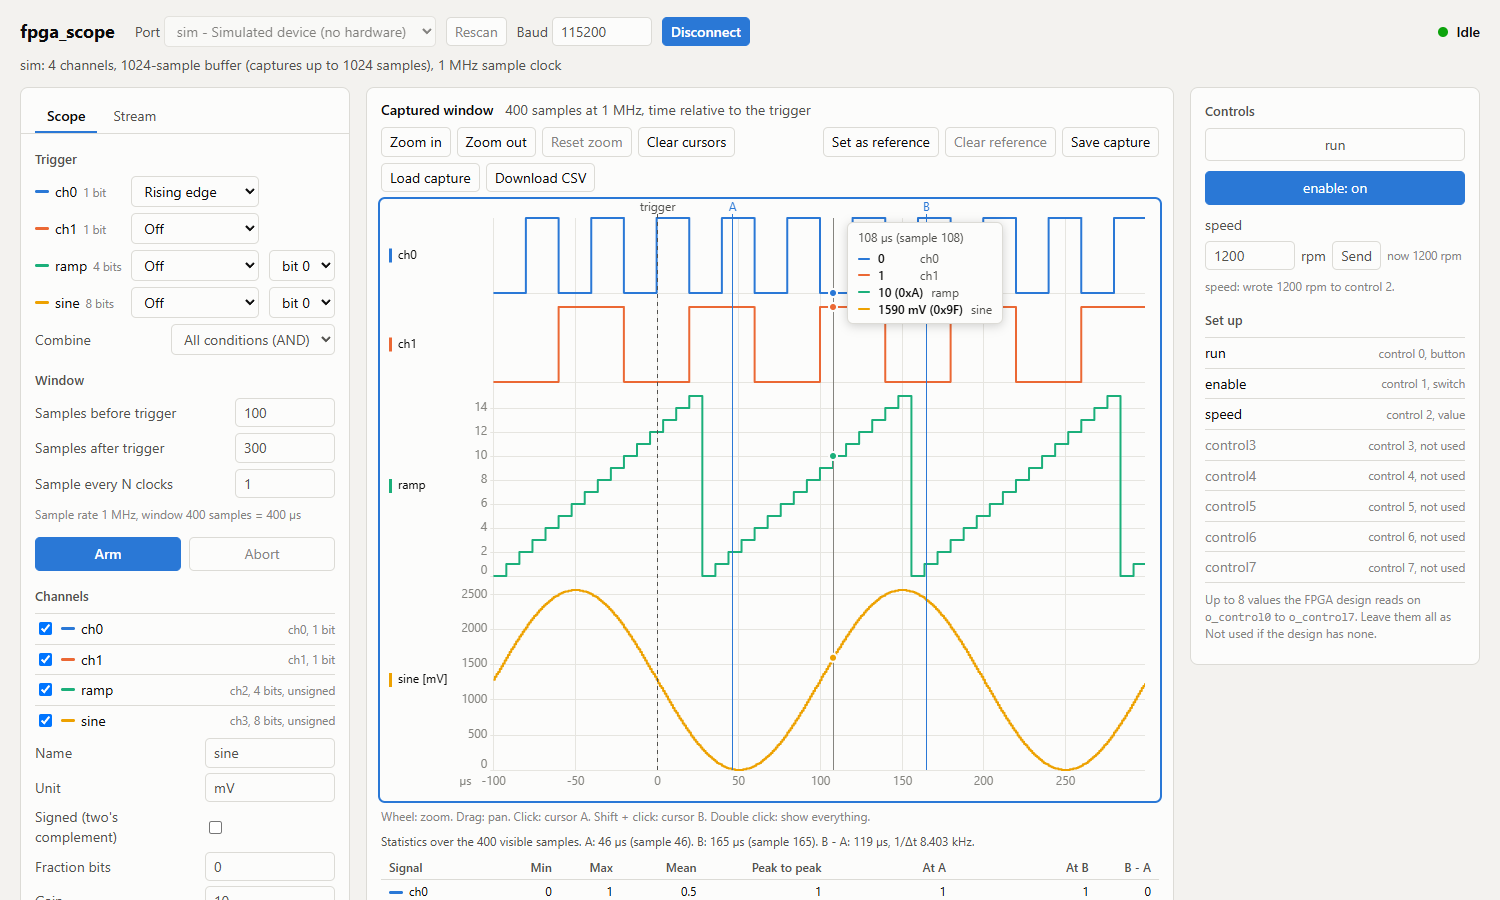
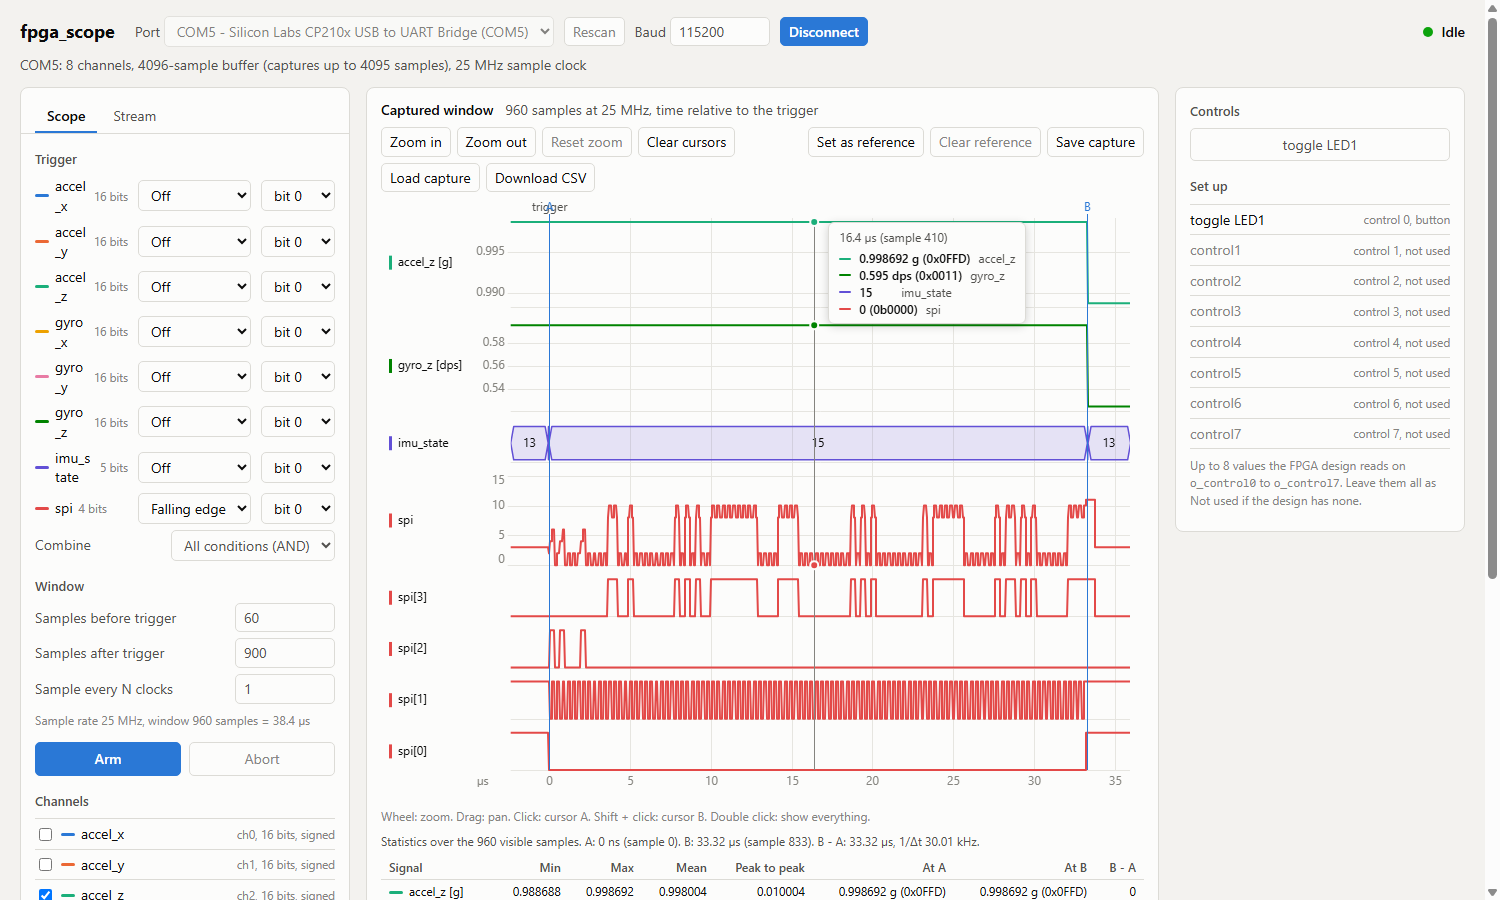
fpga_scope: 16-bit channels verified on the board, full-buffer window avoided
Tested on the Drone FPGA_SOM board with p_channel_max_width(16): an IMU
(LSM6DSM) on six 16-bit channels plus its FSM state and SPI lines, 14-byte
samples. Captures, triggers on bits 8-15, full 4096-sample dumps and stream
bursts decode correctly. Recorded in docs/TODO.md.

The run found an old RTL bug: at decimation 1 scope_ctrl writes the trigger
sample on top of the post samples, so a window of the whole buffer comes
back with sample 0 overwritten by the newest sample. Left in the RTL by
decision; the hosts now keep pre + max(post, 1) <= depth - 1
(ScopeInfo.capture_window_fits, ScopeMath.captureWindowFits). session.py
and scope_cli.py capture refuse a longer window, and the GUI's window hint
says when it is too long. Documented as a known issue in protocol.md.

scope_cli.py --trig still took bits 0-7 only; now 0-15.

GUI screenshots retaken on the board with real IMU data.

diff --git a/utils/fpga_scope/gui/frontend/tests/e2e.js b/utils/fpga_scope/gui/frontend/tests/e2e.js
@@ -95,6 +95,19 @@
     ok(q("ch0-signed").disabled && !q("ch3-signed").disabled, "only multi-bit channels can be signed");
   });
 
+  await step("the window hint says when pre + post is more than the core captures correctly", async () => {
+    const before = [q("pre").value, q("post").value];
+    eq(js("app.info.max_capture_samples"), 1023); // the simulated core has a 1024-sample buffer
+    set("pre", 512); set("post", 511);
+    ok(!q("scope-hint").textContent.includes("too long"), "1023 samples fit");
+    set("post", 512);
+    ok(q("scope-hint").textContent.includes("too long: at most 1023"), "the whole buffer does not");
+    set("pre", 1023); set("post", 0);
+    ok(q("scope-hint").textContent.includes("too long"), "post 0 still needs room for the trigger sample");
+    set("pre", before[0]); set("post", before[1]);
+    ok(!q("scope-hint").textContent.includes("("), "back to a plain hint");
+  });
+
   await step("a long channel name does not push the trigger settings out of the panel", async () => {
     const inside = () => [0, 1, 2, 3].every((c) => q(`trig-bit-${c}`).getBoundingClientRect().right <= q("triggers").getBoundingClientRect().right + 0.5
                                                  && q(`trig-type-${c}`).getBoundingClientRect().right <= q("triggers").getBoundingClientRect().right + 0.5);

diff --git a/utils/fpga_scope/gui/frontend/scope_math.js b/utils/fpga_scope/gui/frontend/scope_math.js
@@ -429,6 +429,17 @@ const ScopeMath = (() => {
     return group.members.every((s) => s.width === 1 || s.cfg.style === "bus") ? HEIGHTS.small : HEIGHTS.medium; // no Y axis to make room for
   }
 
+  /* ---- capture window ---- */
+
+  /* Whether the core captures this window correctly, the same rule as
+     protocol.py's capture_window_fits. maxSamples (from GET_INFO) is one short
+     of the buffer: a window of the whole buffer comes back with its oldest
+     sample overwritten by the newest. The trigger sample is written even with
+     post 0, so that still costs one sample. */
+  function captureWindowFits(pre, post, maxSamples) {
+    return pre + post >= 1 && pre + Math.max(post, 1) <= maxSamples;
+  }
+
   /* ---- files ---- */
 
   const csvCell = (s) => (/[",\n]/.test(s) ? `"${s.replace(/"/g, '""')}"` : s);
@@ -488,6 +499,7 @@ const ScopeMath = (() => {
     trim, formatTick, formatValue, formatRaw, formatHz, timeUnit, formatSeconds, label,
     fullView, clampView, zoomView, panView, visibleSamples,
     stats, busRuns, bitSignals, laneGroups, laneWeight,
+    captureWindowFits,
     csvText, captureFile, parseCaptureFile,
   };
 })();

diff --git a/utils/fpga_scope/gui/frontend/app.js b/utils/fpga_scope/gui/frontend/app.js
@@ -240,9 +240,14 @@ function buildTriggerRows(info, force = false) {
 function updateScopeHint() {
   if (!app.info) { $("scope-hint").textContent = ""; return; }
   const decim = clampInt($("decim"), 1);
-  const total = clampInt($("pre"), 0) + clampInt($("post"), 0);
+  const pre = clampInt($("pre"), 0), post = clampInt($("post"), 0);
+  const total = pre + post;
   const period = decim / app.info.clk_freq_hz;
-  $("scope-hint").textContent = `Sample rate ${M.formatHz(1 / period)}, window ${total} samples = ${M.formatSeconds(total * period)}`;
+  const max = app.info.max_capture_samples;
+  const problem = M.captureWindowFits(pre, post, max) ? ""
+    : total < 1 ? " (empty: no samples to capture)"
+    : ` (too long: at most ${max} samples, pre at most ${max - 1} with post 0)`;
+  $("scope-hint").textContent = `Sample rate ${M.formatHz(1 / period)}, window ${total} samples = ${M.formatSeconds(total * period)}${problem}`;
 }
 
 function clampInt(input, fallback) {

diff --git a/utils/fpga_scope/gui/frontend/tests/unit.js b/utils/fpga_scope/gui/frontend/tests/unit.js
@@ -445,6 +445,15 @@
 
   /* ---- files ---- */
 
+  test("a capture window stays one sample short of the buffer, also with post 0", () => {
+    ok(M.captureWindowFits(2047, 2048, 4095), "4095 of a 4096-sample buffer");
+    ok(!M.captureWindowFits(2048, 2048, 4095), "the whole buffer");
+    ok(M.captureWindowFits(4094, 0, 4095), "post 0 leaves room for the trigger sample");
+    ok(!M.captureWindowFits(4095, 0, 4095), "post 0 with no room for the trigger sample");
+    ok(M.captureWindowFits(0, 1, 4095), "a single sample");
+    ok(!M.captureWindowFits(0, 0, 4095), "an empty window");
+  });
+
   test("the CSV of a capture has the time relative to the trigger", () => {
     const text = M.csvText([{ name: "a", values: [1, 2, 3] }, { name: "b [V]", values: [0.5, -1, 0] }], { pre: 1, period: 1e-3 });
     eq(text.split("\n"), ["sample,time_s,a,b [V]", "-1,-1.000000e-3,1,0.5", "0,0.000000e+0,2,-1", "1,1.000000e-3,3,0", ""]);

diff --git a/utils/fpga_scope/gui/backend/test_scope_cli.py b/utils/fpga_scope/gui/backend/test_scope_cli.py
@@ -81,6 +81,13 @@ class TestCli(unittest.TestCase):
     self.assertIn("state ARMED", out)
     self.assertEqual(port.written[-1], bytes.fromhex("AA 06 00 00 06"))
 
+  def test_capture_window_of_the_whole_buffer_is_refused(self):
+    # the core loses the oldest sample of a window that fills its 16-sample buffer
+    code, _, err, port = run_cli([INFO_FRAME], "capture", "--trig", "0:rise", "--pre", "8", "--post", "8")
+    self.assertEqual(code, 1)
+    self.assertIn("between 1 and 15 samples", err)
+    self.assertEqual(len(port.written), 1) # only GET_INFO
+
   def test_stream(self):
     code, out, _, port = run_cli([
       INFO_FRAME, ok(Opcode.ABORT), ok(Opcode.SET_TRIGGER), ok(Opcode.SET_MODE),
@@ -104,6 +111,12 @@ class TestCli(unittest.TestCase):
   def test_bad_trigger_spec(self):
     with self.assertRaises(SystemExit), contextlib.redirect_stderr(io.StringIO()):
       scope_cli.build_parser().parse_args(PORT_ARGS + ["capture", "--trig", "0:sideways"])
+
+  def test_trigger_bit_up_to_15(self):
+    args = scope_cli.build_parser().parse_args(PORT_ARGS + ["capture", "--trig", "2:high:12"])
+    self.assertEqual(args.trig[0][1].bit_select, 12)
+    with self.assertRaises(SystemExit), contextlib.redirect_stderr(io.StringIO()):
+      scope_cli.build_parser().parse_args(PORT_ARGS + ["capture", "--trig", "2:high:16"])
 
 
 if __name__ == "__main__":

diff --git a/utils/fpga_scope/gui/backend/test_protocol.py b/utils/fpga_scope/gui/backend/test_protocol.py
@@ -103,7 +103,7 @@ class TestInfo(unittest.TestCase):
     self.assertEqual(info.buffer_depth, 16)
     self.assertEqual(info.frame_bytes, 1)
     self.assertEqual(info.clk_freq_hz, 100_000_000)
-    self.assertEqual(info.max_capture_samples, 16)
+    self.assertEqual(info.max_capture_samples, 15)
 
   def test_a_core_from_before_the_controls_has_none(self):
     self.assertEqual(ScopeInfo.unpack(b"\x01" + INFO_PAYLOAD[1:]).num_controls, 0)
@@ -128,6 +128,17 @@ class TestInfo(unittest.TestCase):
   def test_max_capture_with_16_byte_samples(self):
     info = ScopeInfo(2, 3, 8, (16,) * 8, 12, 16, 100_000_000)
     self.assertEqual(info.max_capture_samples, 4095)
+
+  def test_max_capture_one_short_of_the_buffer(self):
+    # the board build of 2026-10-15: 4096 x 14 bytes fits LEN, but a window of
+    # the whole buffer loses its oldest sample (known issue in scope_ctrl)
+    info = ScopeInfo(2, 3, 8, (16,) * 6 + (5, 4), 12, 14, 25_000_000)
+    self.assertEqual(info.max_capture_samples, 4095)
+    self.assertTrue(info.capture_window_fits(2047, 2048))
+    self.assertTrue(info.capture_window_fits(4094, 0))
+    self.assertFalse(info.capture_window_fits(2048, 2048))
+    self.assertFalse(info.capture_window_fits(4095, 0)) # the trigger sample is written too
+    self.assertFalse(info.capture_window_fits(0, 0))
 
 
 class TestClient(unittest.TestCase):

diff --git a/utils/fpga_scope/gui/backend/protocol.py b/utils/fpga_scope/gui/backend/protocol.py
@@ -145,8 +145,16 @@ class ScopeInfo:
 
   @property
   def max_capture_samples(self):
-    """Largest pre+post window: bounded by the buffer and by a dump having to fit LEN."""
-    return min(self.buffer_depth, MAX_PAYLOAD_LEN // self.frame_bytes)
+    """Largest pre+post window: one sample short of the buffer and bounded by a
+    dump having to fit LEN. A window of the whole buffer comes back with its
+    oldest sample overwritten by the newest (known issue, docs/protocol.md),
+    and with post 0 pre must stay one lower still (see capture_window_fits)."""
+    return min(self.buffer_depth - 1, MAX_PAYLOAD_LEN // self.frame_bytes)
+
+  def capture_window_fits(self, pre, post):
+    """Whether the core captures this window correctly: the trigger sample is
+    written on top of pre and post, so post 0 still costs one sample."""
+    return 1 <= pre + post and pre + max(post, 1) <= self.max_capture_samples
 
   def supports(self, mode):
     return bool(self.modes_supported & (1 << mode))

diff --git a/utils/fpga_scope/gui/backend/scope_cli.py b/utils/fpga_scope/gui/backend/scope_cli.py
@@ -33,7 +33,7 @@ def parse_trig(text):
     if len(parts) not in (2, 3): raise ValueError
     channel = int(parts[0])
     bit = int(parts[2]) if len(parts) == 3 else 0
-    if not (0 <= channel <= 7 and 0 <= bit <= 7): raise ValueError
+    if not (0 <= channel <= 7 and 0 <= bit <= 15): raise ValueError
     return channel, ChannelTrigger(True, TRIGGER_TYPES[parts[1]], bit)
   except (ValueError, KeyError):
     raise argparse.ArgumentTypeError(f"'{text}' is not CH:TYPE[:BIT] with TYPE one of {', '.join(TRIGGER_TYPES)}")
@@ -72,6 +72,10 @@ def print_samples(info, samples, csv_path):
 
 def run_capture(scope, args):
   info = scope.get_info()
+  if not info.capture_window_fits(args.pre, args.post):
+    print(f"pre + post must be between 1 and {info.max_capture_samples} samples"
+          f" (with post 0, pre at most {info.max_capture_samples - 1})", file=sys.stderr)
+    return 1
   scope.abort()
   scope.set_mode(Mode.SCOPE)
   scope.set_trigger(trigger_config(args))

diff --git a/utils/fpga_scope/gui/backend/session.py b/utils/fpga_scope/gui/backend/session.py
@@ -103,8 +103,9 @@ class ScopeSession:
         raise ValueError(f"{len(channels)} channel triggers for a {info.num_channels}-channel core")
       if not any(c["enable"] for c in channels):
         raise ValueError("no trigger enabled: the capture would never complete")
-      if pre + post < 1 or pre + post > info.max_capture_samples:
-        raise ValueError(f"pre + post must be between 1 and {info.max_capture_samples} samples")
+      if not info.capture_window_fits(pre, post):
+        raise ValueError(f"pre + post must be between 1 and {info.max_capture_samples} samples"
+                         f" (with post 0, pre at most {info.max_capture_samples - 1})")
       config = TriggerConfig(
         [ChannelTrigger(c["enable"], TRIGGER_TYPES[c["type"]], c["bit_select"]) for c in channels],
         combine_or, pre, post, decimation)

diff --git a/utils/fpga_scope/gui/backend/test_app.py b/utils/fpga_scope/gui/backend/test_app.py
@@ -169,6 +169,10 @@ class TestApp(unittest.TestCase):
     self.assertEqual(no_trigger.status_code, 400)
     too_long = self.http.post("/api/capture", json={"channels": [RISE_CH0], "pre": 1000, "post": 1000})
     self.assertEqual(too_long.status_code, 400)
+    whole_buffer = self.http.post("/api/capture", json={"channels": [RISE_CH0], "pre": 512, "post": 512})
+    self.assertEqual(whole_buffer.status_code, 400) # 1024-sample buffer: at most 1023
+    no_post = self.http.post("/api/capture", json={"channels": [RISE_CH0], "pre": 1023, "post": 0})
+    self.assertEqual(no_post.status_code, 400)
     bad_type = self.http.post("/api/capture", json={"channels": [{"enable": True, "type": "sideways"}], "pre": 1, "post": 1})
     self.assertEqual(bad_type.status_code, 422)
 

diff --git a/utils/fpga_scope/docs/TODO.md b/utils/fpga_scope/docs/TODO.md
@@ -6,12 +6,14 @@ backend and browser GUI. User-facing documentation is in
 [`integration.md`](integration.md); this file tracks status, decisions and
 remaining work.
 
-## Current status (2026-10-12): working on hardware
+## Current status (2026-10-15): working on hardware
 
 The whole chain (RTL core, UART, `protocol.py`, backend, GUI) has run on a
 real board, including the controls (host-writable outputs, added
-2026-10-12), which the user tried there by hand. See "Verification record"
-for exactly what was tested.
+2026-10-12), which the user tried there by hand, and the 16-bit channels
+(2026-10-15), tested on the board with an IMU. One RTL bug is known and
+deliberately left in place, worked around by the host (see "Known issues").
+See "Verification record" for exactly what was tested.
 
 ## What exists
 
@@ -36,6 +38,31 @@ for exactly what was tested.
   (`scope_math.js` holds the maths, `tests/` its tests).
 - `docs/protocol.md`, `docs/integration.md`, `docs/gui.md`.
 
+## Known issues
+
+- **A window of the whole buffer loses its oldest sample** (found on the
+  board 2026-10-15). When the trigger is accepted on a sample tick (always
+  at decimation 1) `scope_ctrl` writes the trigger sample and then all
+  `post` samples, one more than the window (two with `post` 0). The extra
+  write only matters when `pre + post` equals the buffer depth: it wraps
+  onto the oldest slot, and dump sample 0 is a copy of the newest sample.
+  Seen on every full-buffer capture (2048/2048, 10/4086, 4000/96) and never
+  with 4095 samples. It is old, not caused by the 16-bit work: the 512/512
+  board test of 2026-10-10 did not compare sample 0 with its neighbours.
+  - Decision (user, 2026-10-15): not worth an RTL change. The hosts keep
+    `pre + max(post, 1) <= depth - 1`: `ScopeInfo.max_capture_samples` /
+    `capture_window_fits` in `protocol.py` (used by `session.py` and
+    `scope_cli.py capture`) and `ScopeMath.captureWindowFits` (the hint
+    under the GUI's window). Documented in `docs/protocol.md`. A
+    hand-written `CMD_SET_TRIGGER` can still ask for the full buffer.
+  - The fix, if `scope_ctrl.v` is ever touched anyway: when the trigger
+    is taken on a cycle that also writes, count that write as the first
+    post sample (`r17_post_remaining <= post - 1`, straight to `DONE` when
+    nothing is left), skip the write when `post` is 0, and count it in
+    `o_fill_count`. Then add a full-buffer test to `scope_tb.v` (none of
+    its tests fills the buffer today), lift the host limit, and re-run on
+    the board.
+
 ## Verification record
 
 - **Simulation**: `test/scope_tb.v` passes (GET_INFO, SET_TRIGGER, ARM +
@@ -44,6 +71,38 @@ for exactly what was tested.
   `test_scope_cli`, `test_app`) against scripted bytes and the simulated
   device. The example design was simulated once with an ad hoc testbench
   (not committed) and its replies decoded by `protocol.py`.
+- **Hardware, 2026-10-15: 16-bit channels.** Drone FPGA_SOM `top.v`
+  (same board, 25 MHz, 115200 baud, CP210x) with `p_channel_max_width(16)`:
+  LSM6DSM accel X/Y/Z and gyro X/Y/Z on ch0-ch5 (16 bits, signed), the
+  driver FSM state on ch6 (5 bits), the SPI pins on ch7 (4 bits); 105-bit,
+  14-byte samples, 4096-sample buffer. The user first tried it from the GUI
+  by hand; then a script (not committed) through `protocol.py`:
+  - The RTL in the Drone project equals this repo's (only line endings
+    differ, checked file by file).
+  - GET_INFO widths, frame bytes and clock correct.
+  - Byte order and packing across 14-byte samples: on every capture and
+    burst |accel| came out at 1.01 g at rest, ch6 only took valid FSM
+    states, padding bits 105-111 were always 0, and at decimation 1 the
+    six IMU values only changed on the sample after `st_burst_latch`.
+  - 30/30 captures (pre 100, post 300, cs_n falling) with the edge at
+    index 100. A burst read is 832 clocks, 104 SCK cycles.
+  - Trigger on bits 8-13 of a 16-bit channel: the level the data holds
+    triggers with that bit set in the trigger sample, the opposite level
+    never triggers; `scope_cli.py --trig 2:high:12` caught accel_z
+    crossing 4095 -> 4096 at the trigger sample.
+  - Full-buffer dumps of 4096 x 14 = 57344 bytes arrive complete in 5 s,
+    but found the known issue above.
+  - Decimation 1000: the IMU updates at 206 Hz (208 Hz configured).
+  - Stream bursts at decimation 1, 100, 1000 and 65535 decode correctly.
+  - GUI: capture, stream, signed/gain/units on 16-bit channels, a bus
+    lane, one lane per bit, cursors; `img/` screenshots taken from this
+    run, the stream one while the user moved the board.
+  - Not checkable on a 16-wide build: "a bit past the lane never
+    triggers" (bit_select cannot exceed 15). A bit past a channel's own
+    width but inside the lane reads the zero padding of the `i_chN` port,
+    so level-low triggers on it; the GUI does not offer those bits.
+  - Not observed by Claude: LED1, which toggles on each write to
+    control 0 in this design.
 - **Controls on the board (2026-10-12)**: the user tried the buttons from
   the GUI against the rebuilt bitstream and reports they work. Not written
   down: which control kinds, and whether a design reacting to `o_controlN`
@@ -155,6 +214,8 @@ for exactly what was tested.
   on every write. Separate `o_controlN` ports, like the channels. The only
   thing to keep in step is an old bitstream, which reports
   `protocol_version` 1 and gets its controls greyed out.
+- The full-buffer issue (see "Known issues") stays in the RTL; the hosts
+  keep the window one sample short of the buffer (user, 2026-10-15).
 - Controls are named "control", not "ctrl", in the RTL: `scope_ctrl` and
   the `w_ctrl_*` wires are the capture state machine, an unrelated thing.
 
@@ -202,7 +263,7 @@ Left over from this batch, done later the same day:
 
 - [x] Try it against the board (done by the user).
 - [x] `img/gui_scope.png` and `img/gui_stream.png` retaken against the
-      simulated device.
+      simulated device, and again on 2026-10-15 against the board (IMU).
 
 Added afterwards (2026-10-12):
 
@@ -274,21 +335,25 @@ that send 16 bits, needed nothing: controls were already 32 bits.)
       order and zero padding. The trigger test was seen to fail with
       `bit_select` cut back to 3 bits. `test_protocol` decodes 16-bit
       channels.
-- [ ] `sim_device.py` has no 16-bit channel, so the GUI has not been
-      exercised with one (the page has no 8-bit limit of its own: widths
-      come from GET_INFO, and the trigger bit list follows the width).
-- [ ] On the board: a build with `p_channel_max_width(16)`.
+- [ ] `sim_device.py` has no 16-bit channel, so no automated GUI test
+      uses one. The GUI has been used with 16-bit channels on the board
+      (2026-10-15).
+- [x] On the board: a build with `p_channel_max_width(16)` (2026-10-15,
+      see "Verification record").
+- [x] `scope_cli.py --trig` still refused bits 8-15; found on the board
+      2026-10-15, now 0-15 with a test.
 
 ## Still to do
 
-- [ ] Use it on real signals: replace the example in the Drone FPGA_SOM
-      design with a `scope_top` fed by the IMU SPI lines and valid flag.
+- [x] Use it on real signals: the Drone FPGA_SOM design has a `scope_top`
+      on the IMU outputs, its FSM state and SPI lines (2026-10-15).
 - [x] The copy of the RTL in the Drone project has the controls (checked
       2026-10-12: `scope_top.v` there has the `o_controlN` ports).
 - [ ] GUI stream view: consecutive bursts are not contiguous in time (the
       host needs a moment between `CMD_STREAM_START`s), so slow signals show
       a small jump at every burst boundary. Larger bursts make it rarer.
-- [ ] Try other configurations: a faster baud rate, a 100 MHz clock, wide
-      frames (8 channels x 8 bits), another USB-UART adapter.
+- [ ] Try other configurations: a faster baud rate, a 100 MHz clock,
+      another USB-UART adapter. (Wide frames done: 8 channels, 105 bits,
+      14 bytes per sample, 2026-10-15.)
 - [ ] A committed testbench that drives the RTL with frames produced by
       `protocol.py` (today that cross-check was done once by hand).

diff --git a/utils/fpga_scope/fpga_scope.md b/utils/fpga_scope/fpga_scope.md
@@ -2,7 +2,7 @@
 
 A small logic analyzer / oscilloscope that lives inside your FPGA design. You connect up to 8 internal signals to it, and look at them from a browser through a plain USB-UART adapter. No vendor tool, no JTAG and no special hardware are needed while debugging.
 
-![Scope tab showing a captured window](img/gui_scope.png)
+![Scope tab showing one SPI read of an IMU, captured on the board](img/gui_scope.png)
 
 It has two modes, selected from the GUI:
 
@@ -11,11 +11,11 @@ It has two modes, selected from the GUI:
 
 It can also write to the design: eight **controls**, shown in the GUI as buttons, switches or numbers with a name of your choice, appear in the FPGA as eight 32-bit outputs. Use them to start something, enable a test mode or set a value such as a speed without rebuilding.
 
-![Stream tab showing live samples](img/gui_stream.png)
+![Stream tab showing live accelerometer and gyroscope values from the board while it is moved by hand](img/gui_stream.png)
 
 ✔ Verified via testbenches: the RTL core with a simulated host ([testbench](test/scope_tb.v)) and the Python side with unit tests ([backend tests](gui/backend/)).
 
-🧪 Status: Tested on real hardware with the [example design](example/scope_example_top.v) on a Spartan-7 (xc7s50) board with a 25 MHz clock, at 115200 baud through a CP210x USB-UART adapter: 3000 commands without a lost reply, captures and streams matching the generated signals, and the GUI working end to end. Other devices, clocks and baud rates have not been tried. The controls were added after that run: they are verified in simulation, and the user tried the buttons from the GUI on the board (2026-10-12) and they worked; what exactly was checked was not written down.
+🧪 Status: Tested on real hardware with the [example design](example/scope_example_top.v) on a Spartan-7 (xc7s50) board with a 25 MHz clock, at 115200 baud through a CP210x USB-UART adapter: 3000 commands without a lost reply, captures and streams matching the generated signals, and the GUI working end to end. Other devices, clocks and baud rates have not been tried. The controls were added after that run: they are verified in simulation, and the user tried the buttons from the GUI on the board (2026-10-12) and they worked; what exactly was checked was not written down. The 16-bit channels (`p_channel_max_width(16)`) were tested on the same board on 2026-10-15, with an IMU (LSM6DSM) on six 16-bit channels plus its SPI lines: captures, triggers on bits 8 to 15, full 4096-sample dumps and streams decode correctly. The screenshots above are from that run. It also found the full-buffer issue listed under the limits below.
 
 📁 [Source Code](source/)
 
@@ -121,7 +121,7 @@ python -m unittest test_frontend    # the web page, in a headless Chrome or Edge
 
 - Up to 8 channels of up to 8 bits each, or 16 with `p_channel_max_width(16)`. A wider bus is split over several channels, which the GUI can show as one value again.
 - All signals must be synchronous to the clock given to the scope.
-- A capture holds at most `2^p_buffer_depth_log2` samples, and at most 65535 bytes in total.
+- A capture holds at most `2^p_buffer_depth_log2 - 1` samples, and at most 65535 bytes in total. One less than the buffer because a window of the whole buffer comes back with its oldest sample replaced by the newest, a known issue of the core that the GUI and `scope_cli.py` stay clear of ([details](docs/protocol.md#known-issue-a-window-of-the-whole-buffer)).
 - The baud rate is fixed at build time by `p_uart_preescaler`; there is no autobaud.
 - In Stream mode the sample rate is limited by the UART and is not guaranteed, so that view has no time axis.
 - A control keeps its last value until the FPGA is reset, also when the computer is disconnected. There is no timeout, so limits that matter belong in the design.
